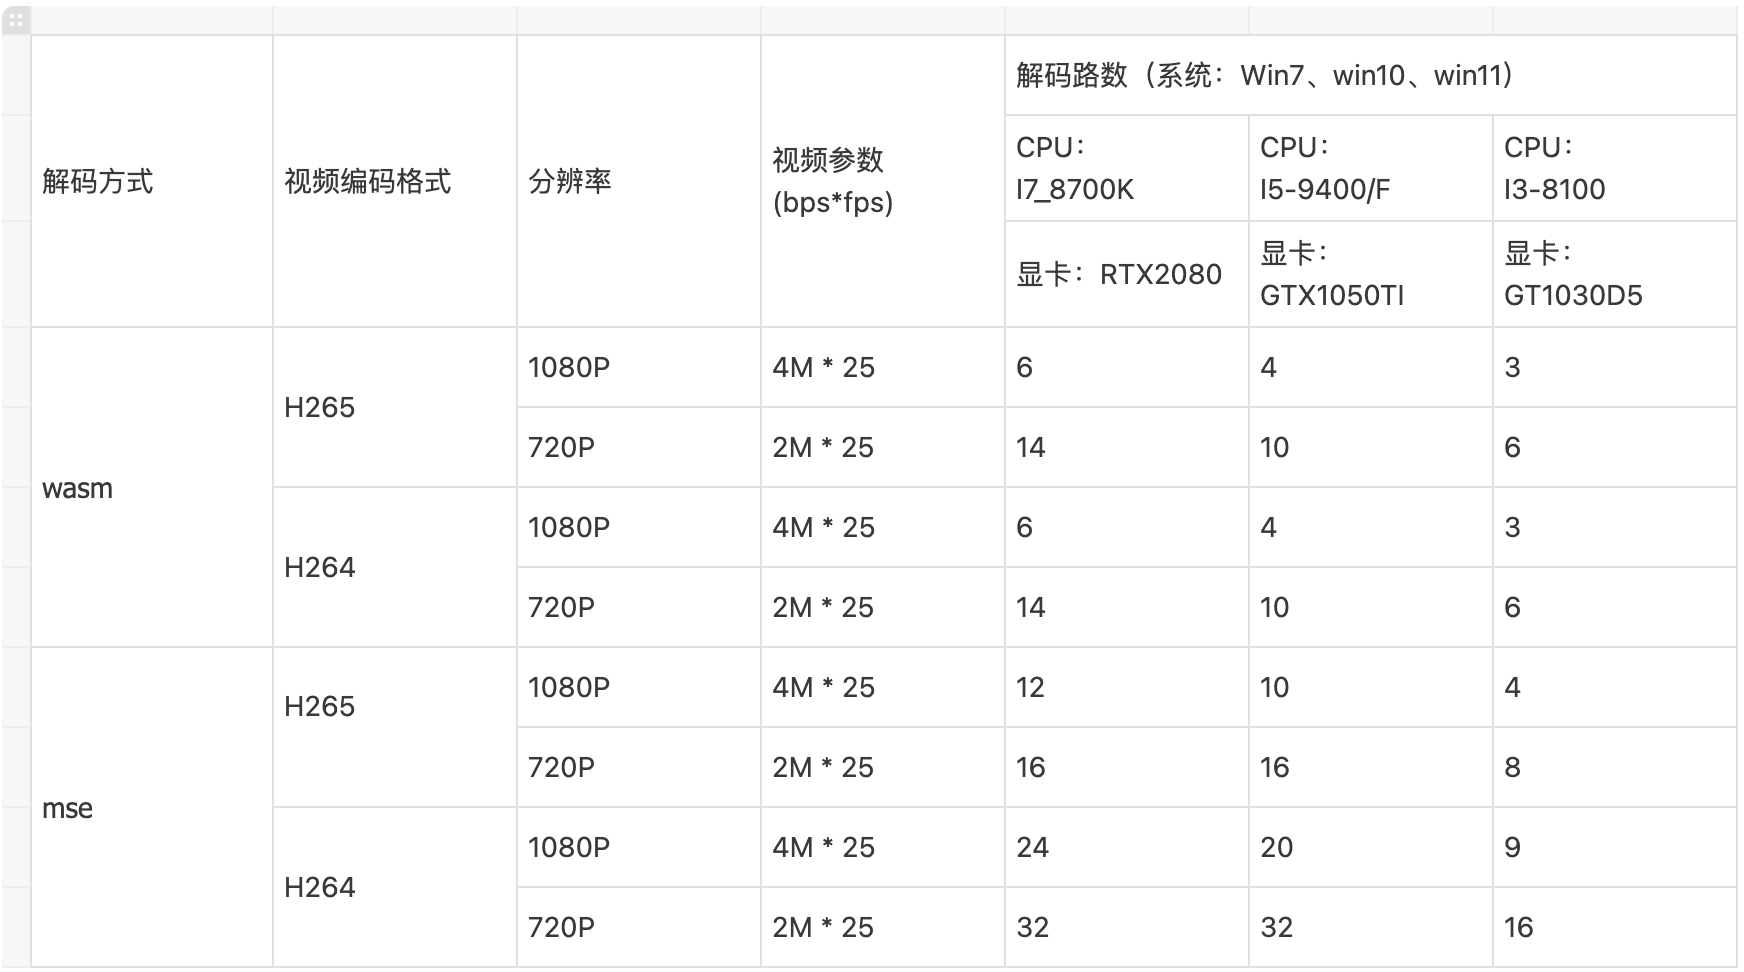
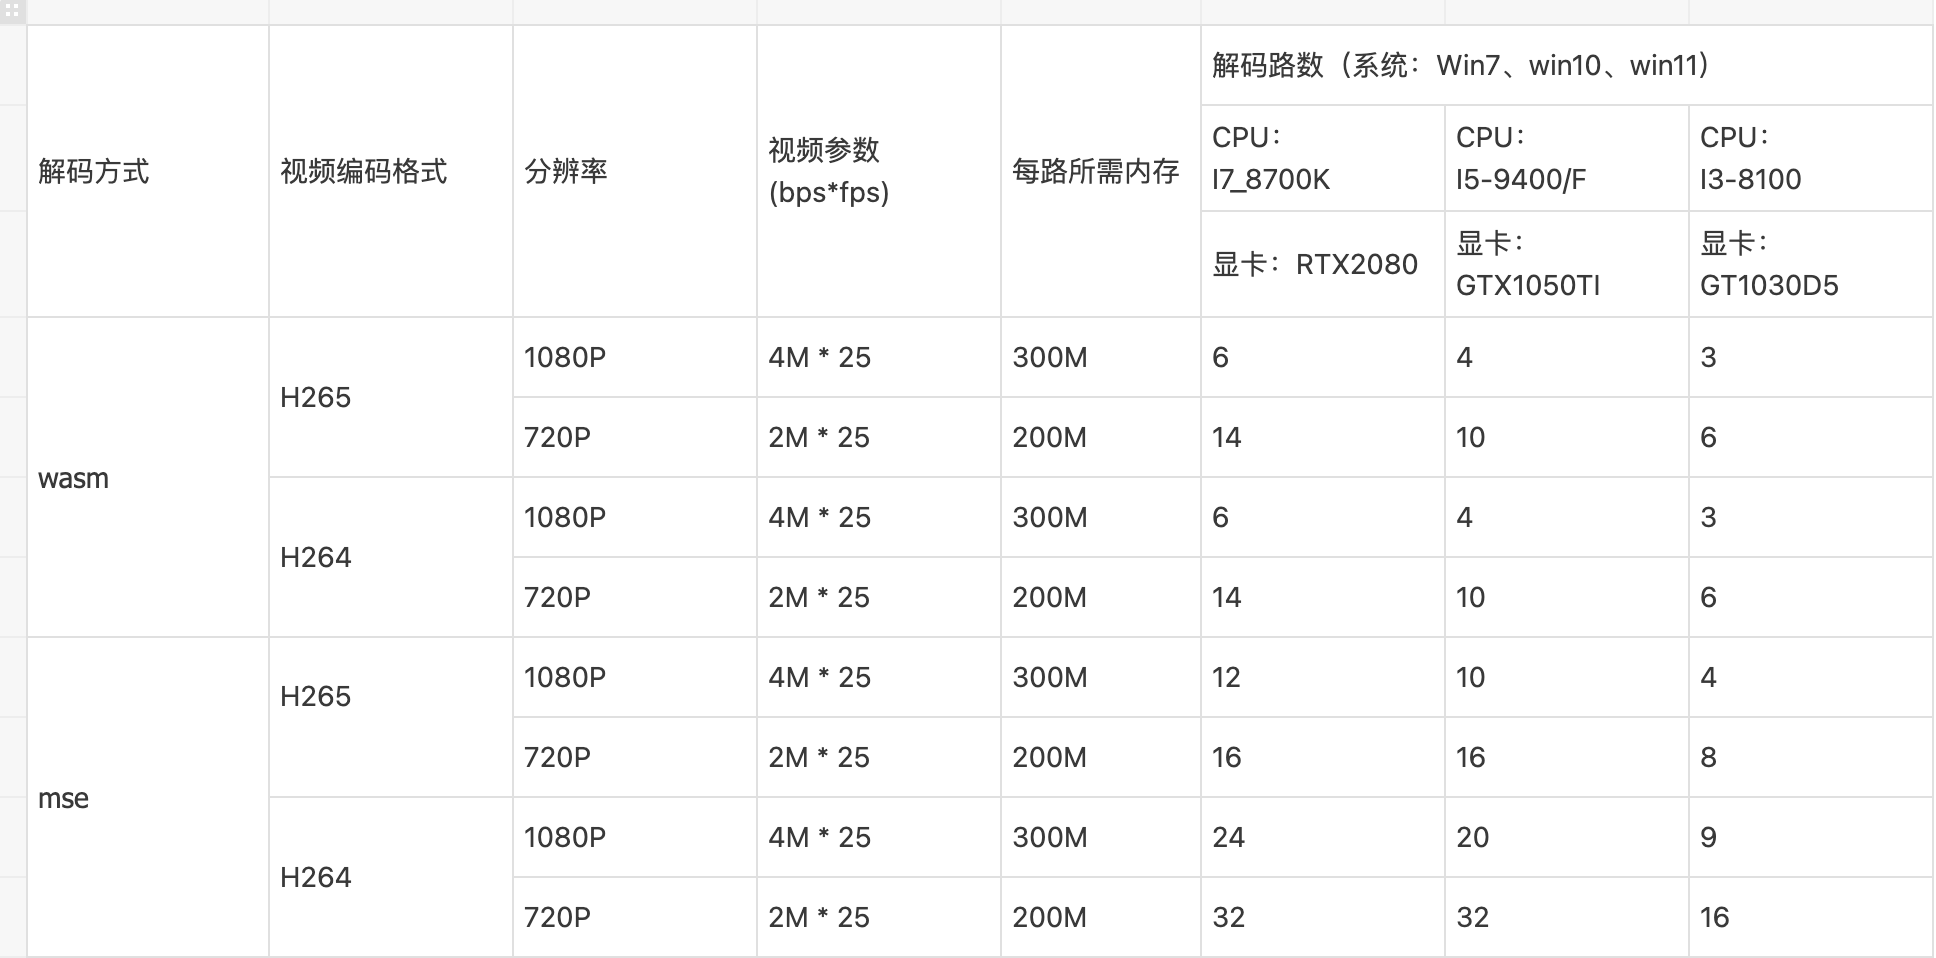
update doc

diff --git a/demo/pro.md b/demo/pro.md
@@ -80,6 +80,13 @@ jessibuca pro 是在开源版本的基础上额外支持的深入业务解决方
 | 支持定制化服务开发                        | 不支持    | 支持 |
 
 
+
+## Pro 体验版本和 Pro正式版本区别
+
+1. 体验版的解码时间限制是在一个小时，超过一个小时wasm 会暂停解码。
+2. 体验版会强制在右上角有 jessibuca-pro 水印。
+
+
 ## 浏览器支持
 
 > 基础功能支持主流浏览器。
@@ -184,6 +191,12 @@ jessibuca pro 是在开源版本的基础上额外支持的深入业务解决方
 
 ## 电脑型号以及码率
 <img src="/public/configuration.png">
+
+
+> 例如：6路 1080p的视频，所需的内存为：6 * 300 = 1800M，1800/1024 = 1.75G
+
+> 例如：6路 720p的视频，所需的内存为：6 * 200 = 1200M，1200/1024 = 1.17G
+
 
 
 ## wasm解码模式下默认work线程中发起Http-Flv、WS请求，减少主线程往worker线程传递数据，提升性能
